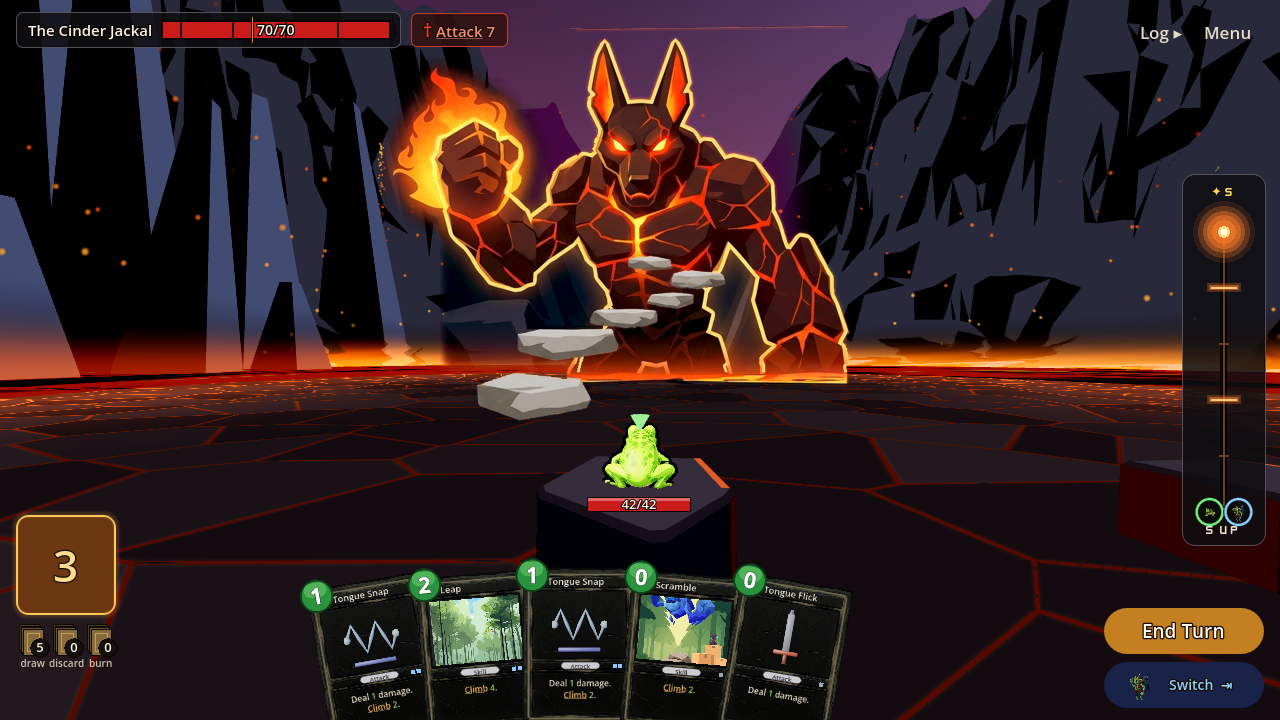
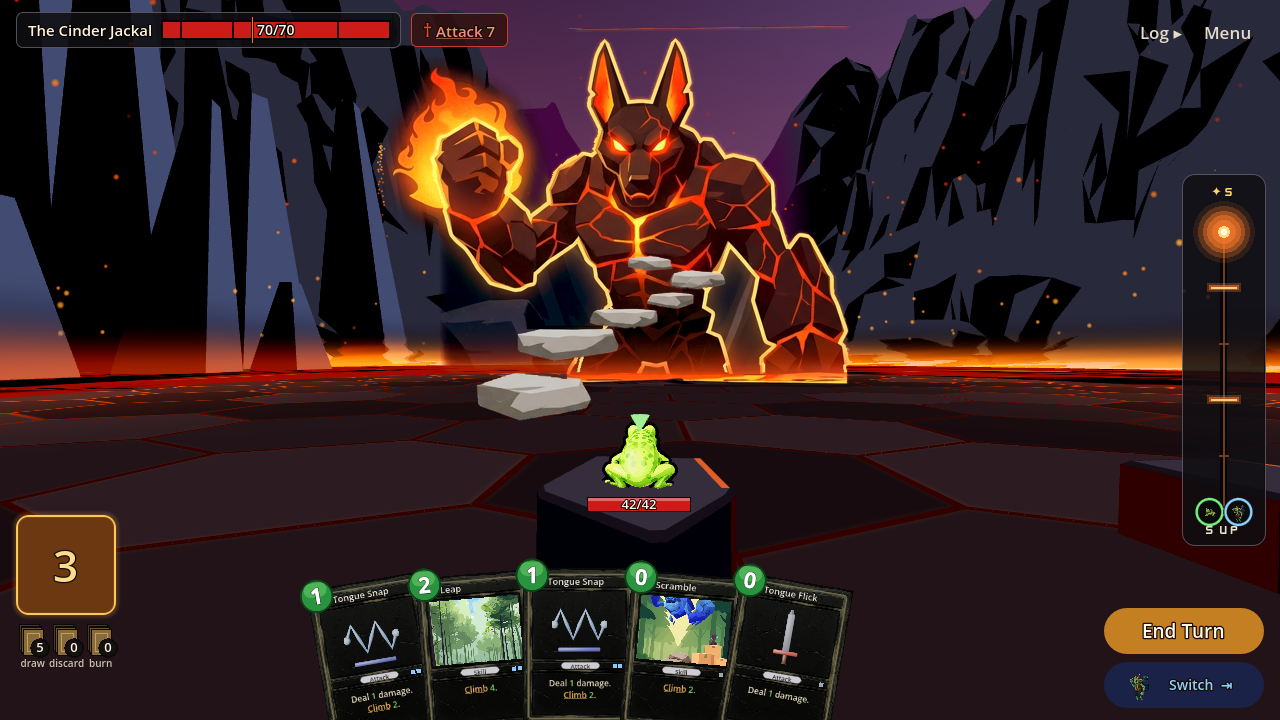
builder: floor seams thin dull warm lines on even dark hex slabs; obsidian seam lip option
Claude-Session: https://claude.ai/code/session_0183EvjBG5mkJcNR5CzYepVv

diff --git a/design/plan/BUILDER-QUEUE-NOTES.md b/design/plan/BUILDER-QUEUE-NOTES.md
@@ -2175,4 +2175,5 @@ Found by measuring, not by eye: the jackal is TARGET's own pixels, so every crac
 - **Grader:** R1 FAIL (seams black, cells too big), R2 FAIL (seams too faint, cells too big), R3 FAIL (near seams too red/sharp, rim glow), R4 FAIL (seams darker than faces), R5 FAIL (crimson seams, speckled band), R6 FAIL (seams still lit lines; faces too dark, purple). No penalties in any round; each said the floor moved toward TARGET. VERDICT: FAIL.
 - Frames: ![[agents/frames/builder/2026-10-09-floor-before.png|420]] ![[agents/frames/builder/2026-10-09-floor-after.png|420]]
 - Meshy: 0 credits.
+- **Later rounds, same run.** Measured TARGET's seams column by column: faces a flat (31,22,29), each seam a 2-4 px near-black gap with a dull red lip (60-80,20-27,11-24) on its near side only. New obsidian.gdshader `lip_*` uniforms draw that (lip on the side where the edge distance grows down-screen). R7 (Voronoi 5, lip): seams faint/warm MET, not purple MET; asked for larger hex-like slabs and a warm wash by the lava. R8 (hex 6.5 + lip): seams "black". R9 (Voronoi 7, lip x3 by the lava): busy horizon. R10 (Voronoi 5, lip 0.55): seams "dead". R11 (hex 6.5, thin warm seams, no lip): seams "saturated red". Kept: hex 6.5, seams (0.65,0.3,0.13) x0.4, slab_var 0.12, faces (0.24,0.203,0.215), rim_gain 0.3. Every round: no penalties, closer than before. VERDICT: FAIL.
 

diff --git a/design/plan/BUILDER-QUEUE.md b/design/plan/BUILDER-QUEUE.md
@@ -45,7 +45,7 @@ run failed.
       Test: state=3d beast=cinder_jackal ^fist-fire-compact-curling-blaze-wrapped-
 
 - [ ] **Floor: faint warm seams, not bright orange.**
-      Next pass: grader R6 (2026-10-09 run 7): seams "still visible red lines", TARGET's are dark gaps with a faint red-brown edge; faces too dark/purple against TARGET's warm dark slate (#2b2624-#34302c, per-slab variation); speckled orange band under the lava line. Graders split between rounds on seam brightness and tile size, so measure TARGET's seam and face pixels first and match those.
+      Next pass: grader R11 (2026-10-09 run 7): seams "saturated red, too visible" (want dull brown-orange #5a3220, barely lighter than faces); slabs want per-slab tone, lit bevel/top-edge relief, warm charcoal #2e2928; no red glow band under the lava. Graders flip between "seams too dark" and "too bright" round to round; TARGET measured: faces (31,22,29), seam = black gap + (60-80,20-27,11-24) lip on the near side.
       Both critics, MODERATE: TARGET's hex floor is dark with faint warm seams; the game's seams are bright high-contrast orange and the floor is tinted purple.
       **Done when** the `--square` pair shows no visible difference in the floor and its seams.
       Test: state=3d beast=cinder_jackal ^floor-faint-warm-seams-not-bright-orange
